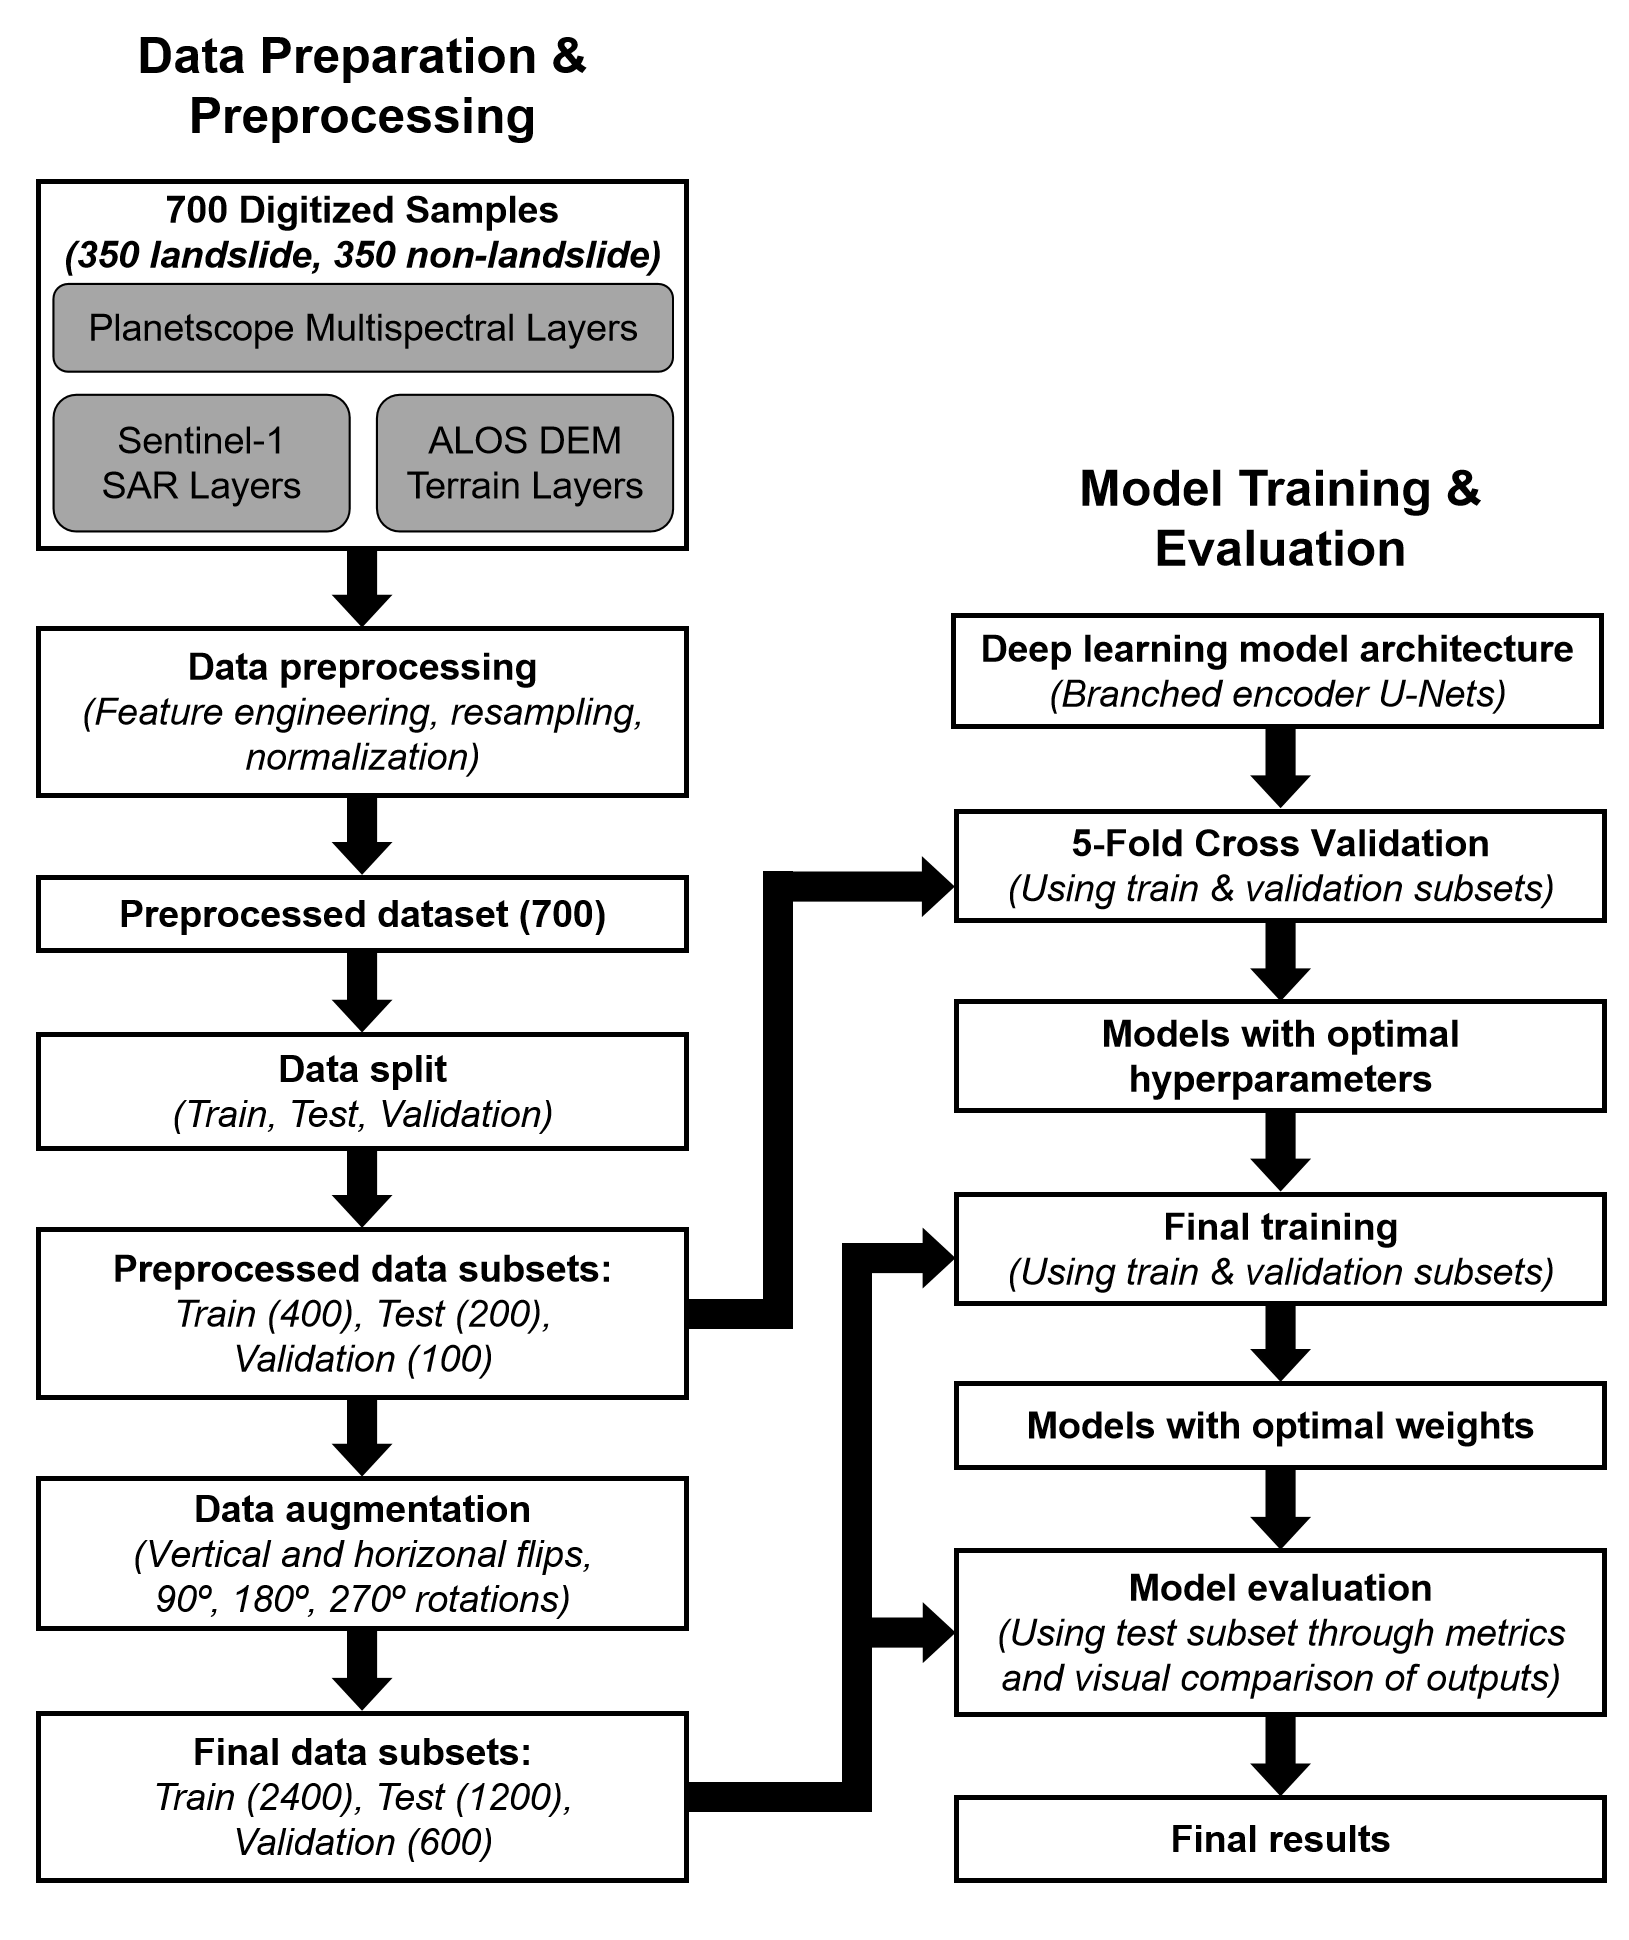
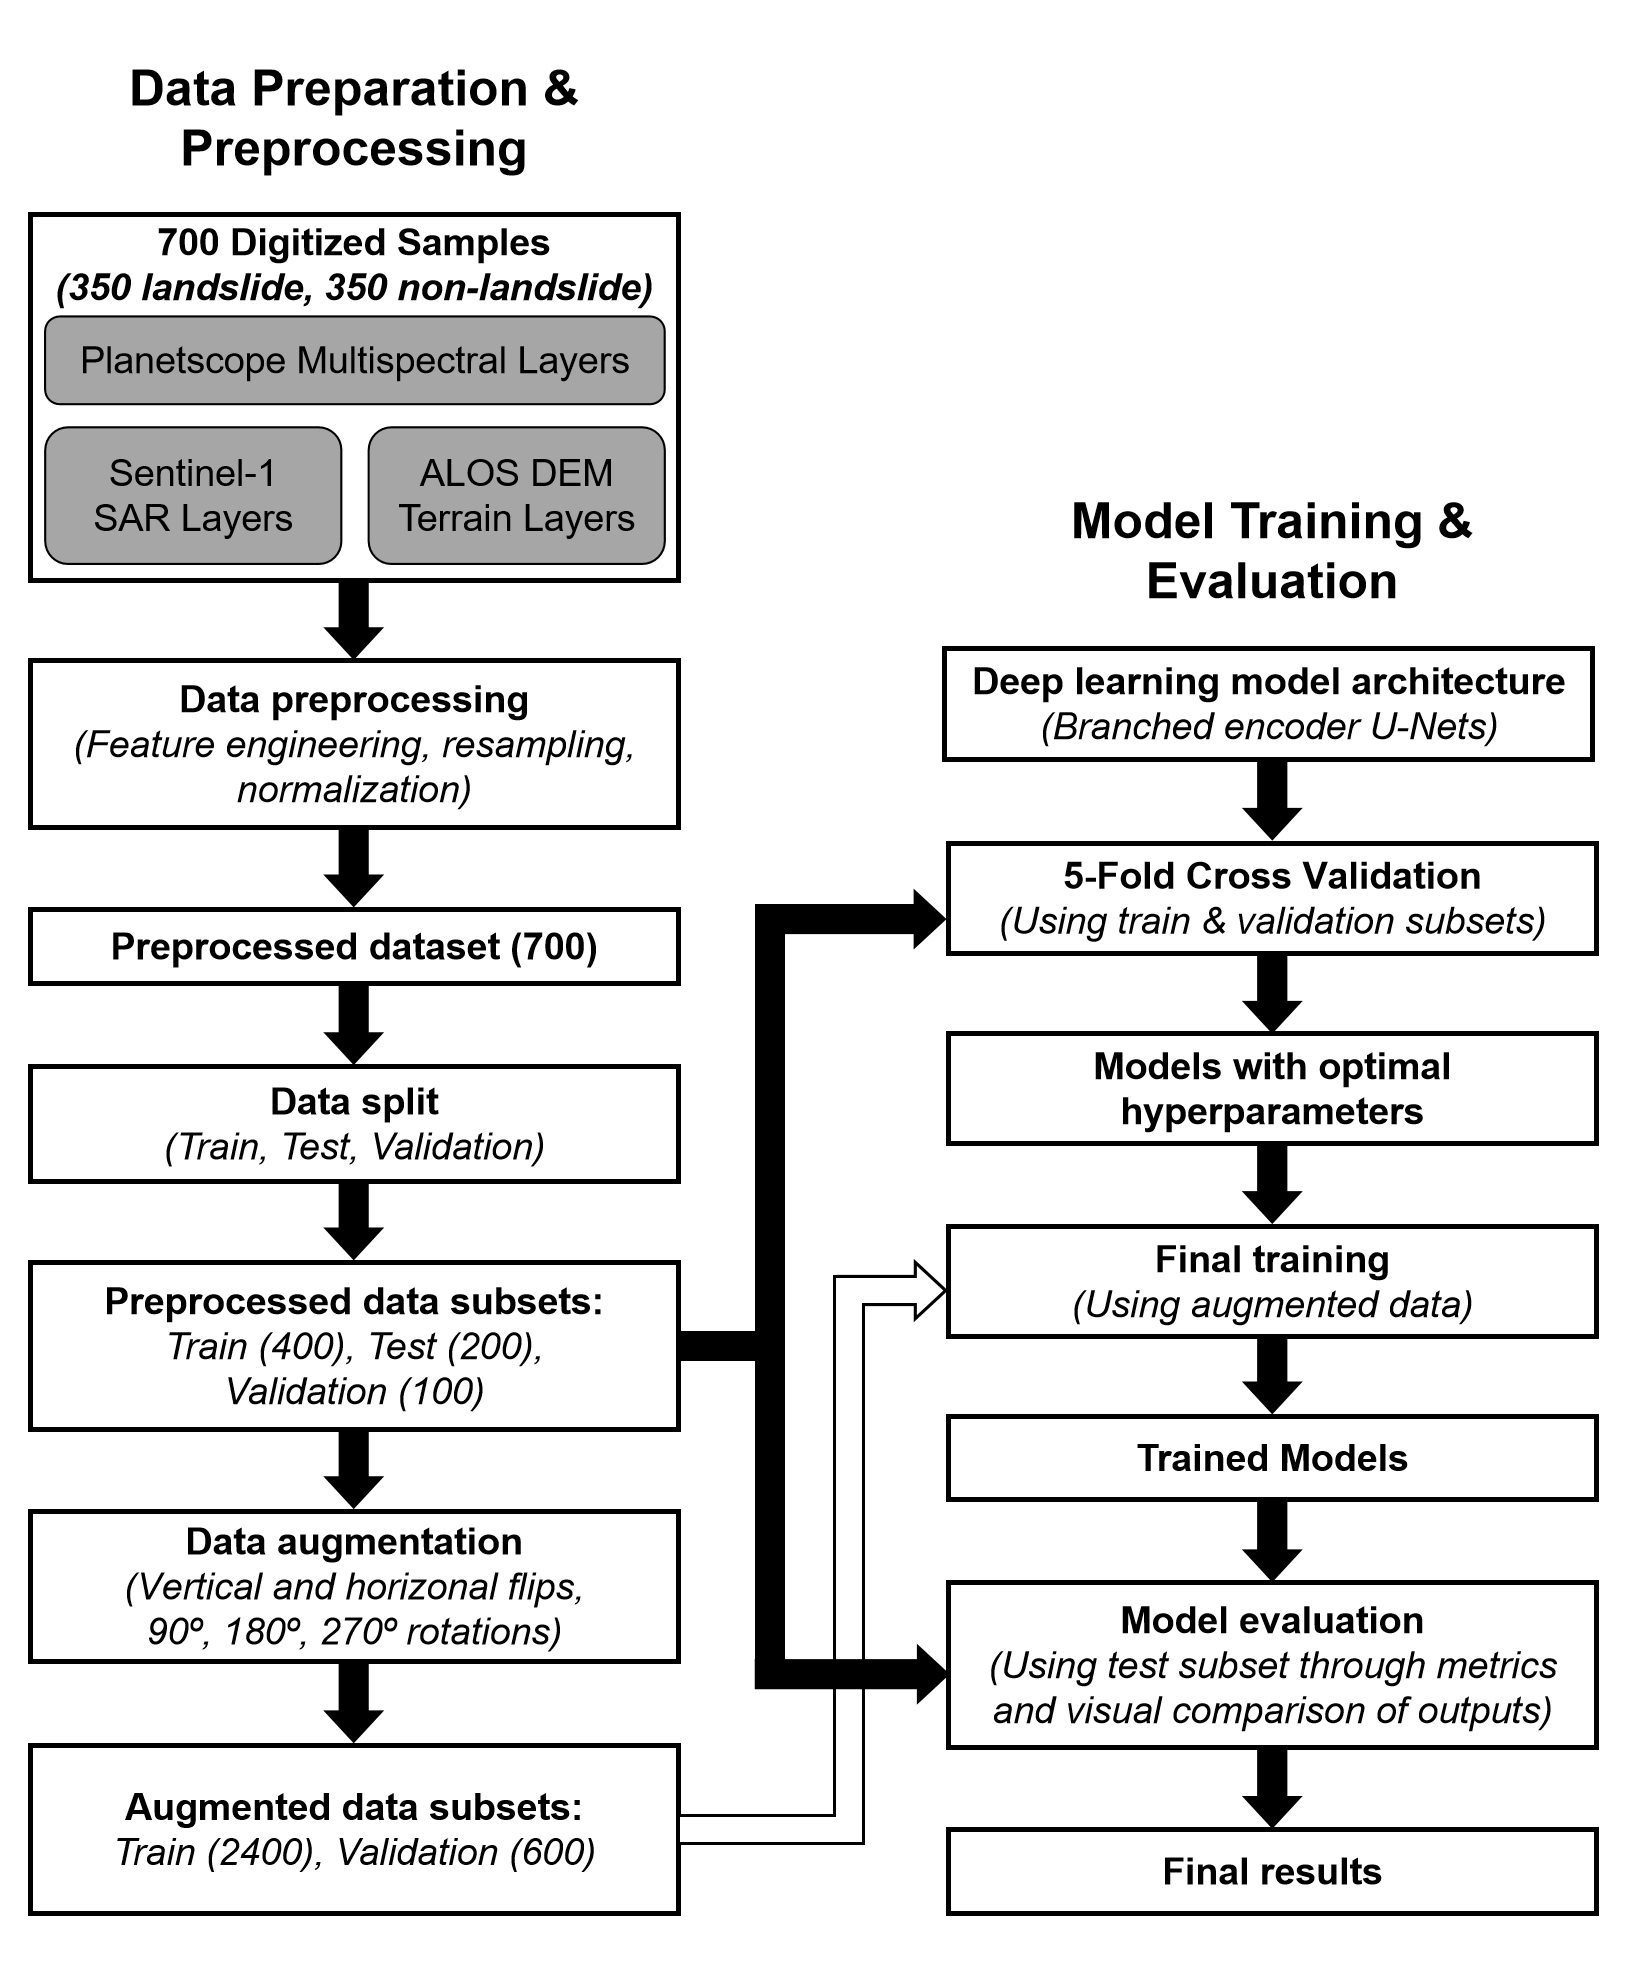
Updated results and methodology figure

diff --git a/README.md b/README.md
@@ -56,8 +56,8 @@ Study area covers the landslide-prone Western Ghats region in Kerala, India char
 ### Data Preprocessing
 - 700 samples were digitized from the study area (350 landslide and 350 non-landslide samples).
 - They were divided into 400 samples for training (200 landslide & 200 non-landslide), 200 samples for testing (100 each) and 100 for validation (50 each).
-- For each sample, the Planetscope layers (3 meter) were tiled to 128x128 patches (2<sup>7</sup>), covering an area of 384 meter in length and width (128 × 3). The Sentinel-1 SAR layers (10 meter) covered the same spatial extent with 38x38 tiles (≈384 ÷ 10) while ALOS DEM layers (12.5 meter) covered it with 31x31 tiles (≈384 ÷ 12.5). To ensure dimensional consistency and compatibility across inputs, both DEM and SAR layers were resampled to a standardized dimension of 32x32 (2<sup>5</sup>) using the bilinear interpolation method.
-- The values in each channel / band was normalized to the range of -1 to 1, with -9 being the placeholder for pixels with no data (Nan, 0, -9999).
+- For each sample, the Planetscope layers (3 meter) were tiled to 128x128 patches (2<sup>7</sup>), covering an area of 384 meter in length and width (128 × 3). The Sentinel-1 SAR layers (10 meter) covered the same spatial extent with 38x38 tiles (≈384 ÷ 10) while ALOS DEM layers (12.5 meter) covered it with 31x31 tiles (≈384 ÷ 12.5). To ensure dimensional consistency and compatibility across inputs, both DEM and SAR layers were resampled to a standardized dimension of 32x32 (2<sup>5</sup>) using bilinear interpolation.
+- The values in each channel / band was normalized to the range of -1 to 1, with -9 being the placeholder for pixels with no data (Nan, -9999).
 - Aspect is an angular (circular) variable with 0 to 360 degree range. Since min-max normalization would misrepresent the directional information in it, aspect was transformed using its sine and cosine components, which has the range -1 to 1 and capture the circular nature.
 - Since NDVI and NDWI are already in the range of -1 to 1, normalization was not applied to them.
 
@@ -165,7 +165,7 @@ For convenience, these models will be often called UNet1, UNet2, and UNet3 respe
 </table>
 
 ## Results
-- UNet3 (Triple Encoder U-Net++ w/ ECA) gave the best performance in the final training with 90.3% Recall and 86% F1 Score. It also was the most robust in the 5-Fold CV with 83.71±0.52 F1 Score.
+- UNet3 (Triple Encoder U-Net++ w/ ECA) gave the best performance in the final training with 90.35% Recall and 86.17% F1 Score. It also was the most robust in the 5-Fold CV with 83.71±0.52 F1 Score.
 - Figure 5 shows some of the test samples along with their landslide mask and model predictions. This also shows exceptional performance from UNet3.
 
 <p align="center"><b>Table 3. 5-Fold CV Results.</b></p>
@@ -218,27 +218,27 @@ For convenience, these models will be often called UNet1, UNet2, and UNet3 respe
   </tr>
   <tr>
     <td>UNet1<sub>200</sub></td>
-    <td>83.91</td>
-    <td>84.06</td>
-    <td>84</td>
-    <td>72.39</td>
-    <td>83.03</td>
+    <td>84.1</td>
+    <td>84.25</td>
+    <td>84.17</td>
+    <td>72.68</td>
+    <td>83.23</td>
   </tr>
   <tr>
     <td>UNet2<sub>100</sub></td>
-    <td>79.86</td>
-    <td>91.28</td>
-    <td>85.2</td>
-    <td>74.2</td>
-    <td>84.45</td>
+    <td>79.95</td>
+    <td>91.01</td>
+    <td>85.12</td>
+    <td>74.1</td>
+    <td>84.37</td>
   </tr>
   <tr>
     <td>UNet3<sub>100</sub></td>
-    <td>82.21</td>
-    <td>90.3</td>
-    <td><b>86.06</b></td>
-    <td><b>75.54</b></td>
-    <td><b>85.3</b></td>
+    <td>82.37</td>
+    <td>90.35</td>
+    <td><b>86.17</b></td>
+    <td><b>75.71</b></td>
+    <td><b>85.41</b></td>
   </tr>
 </table>
 
